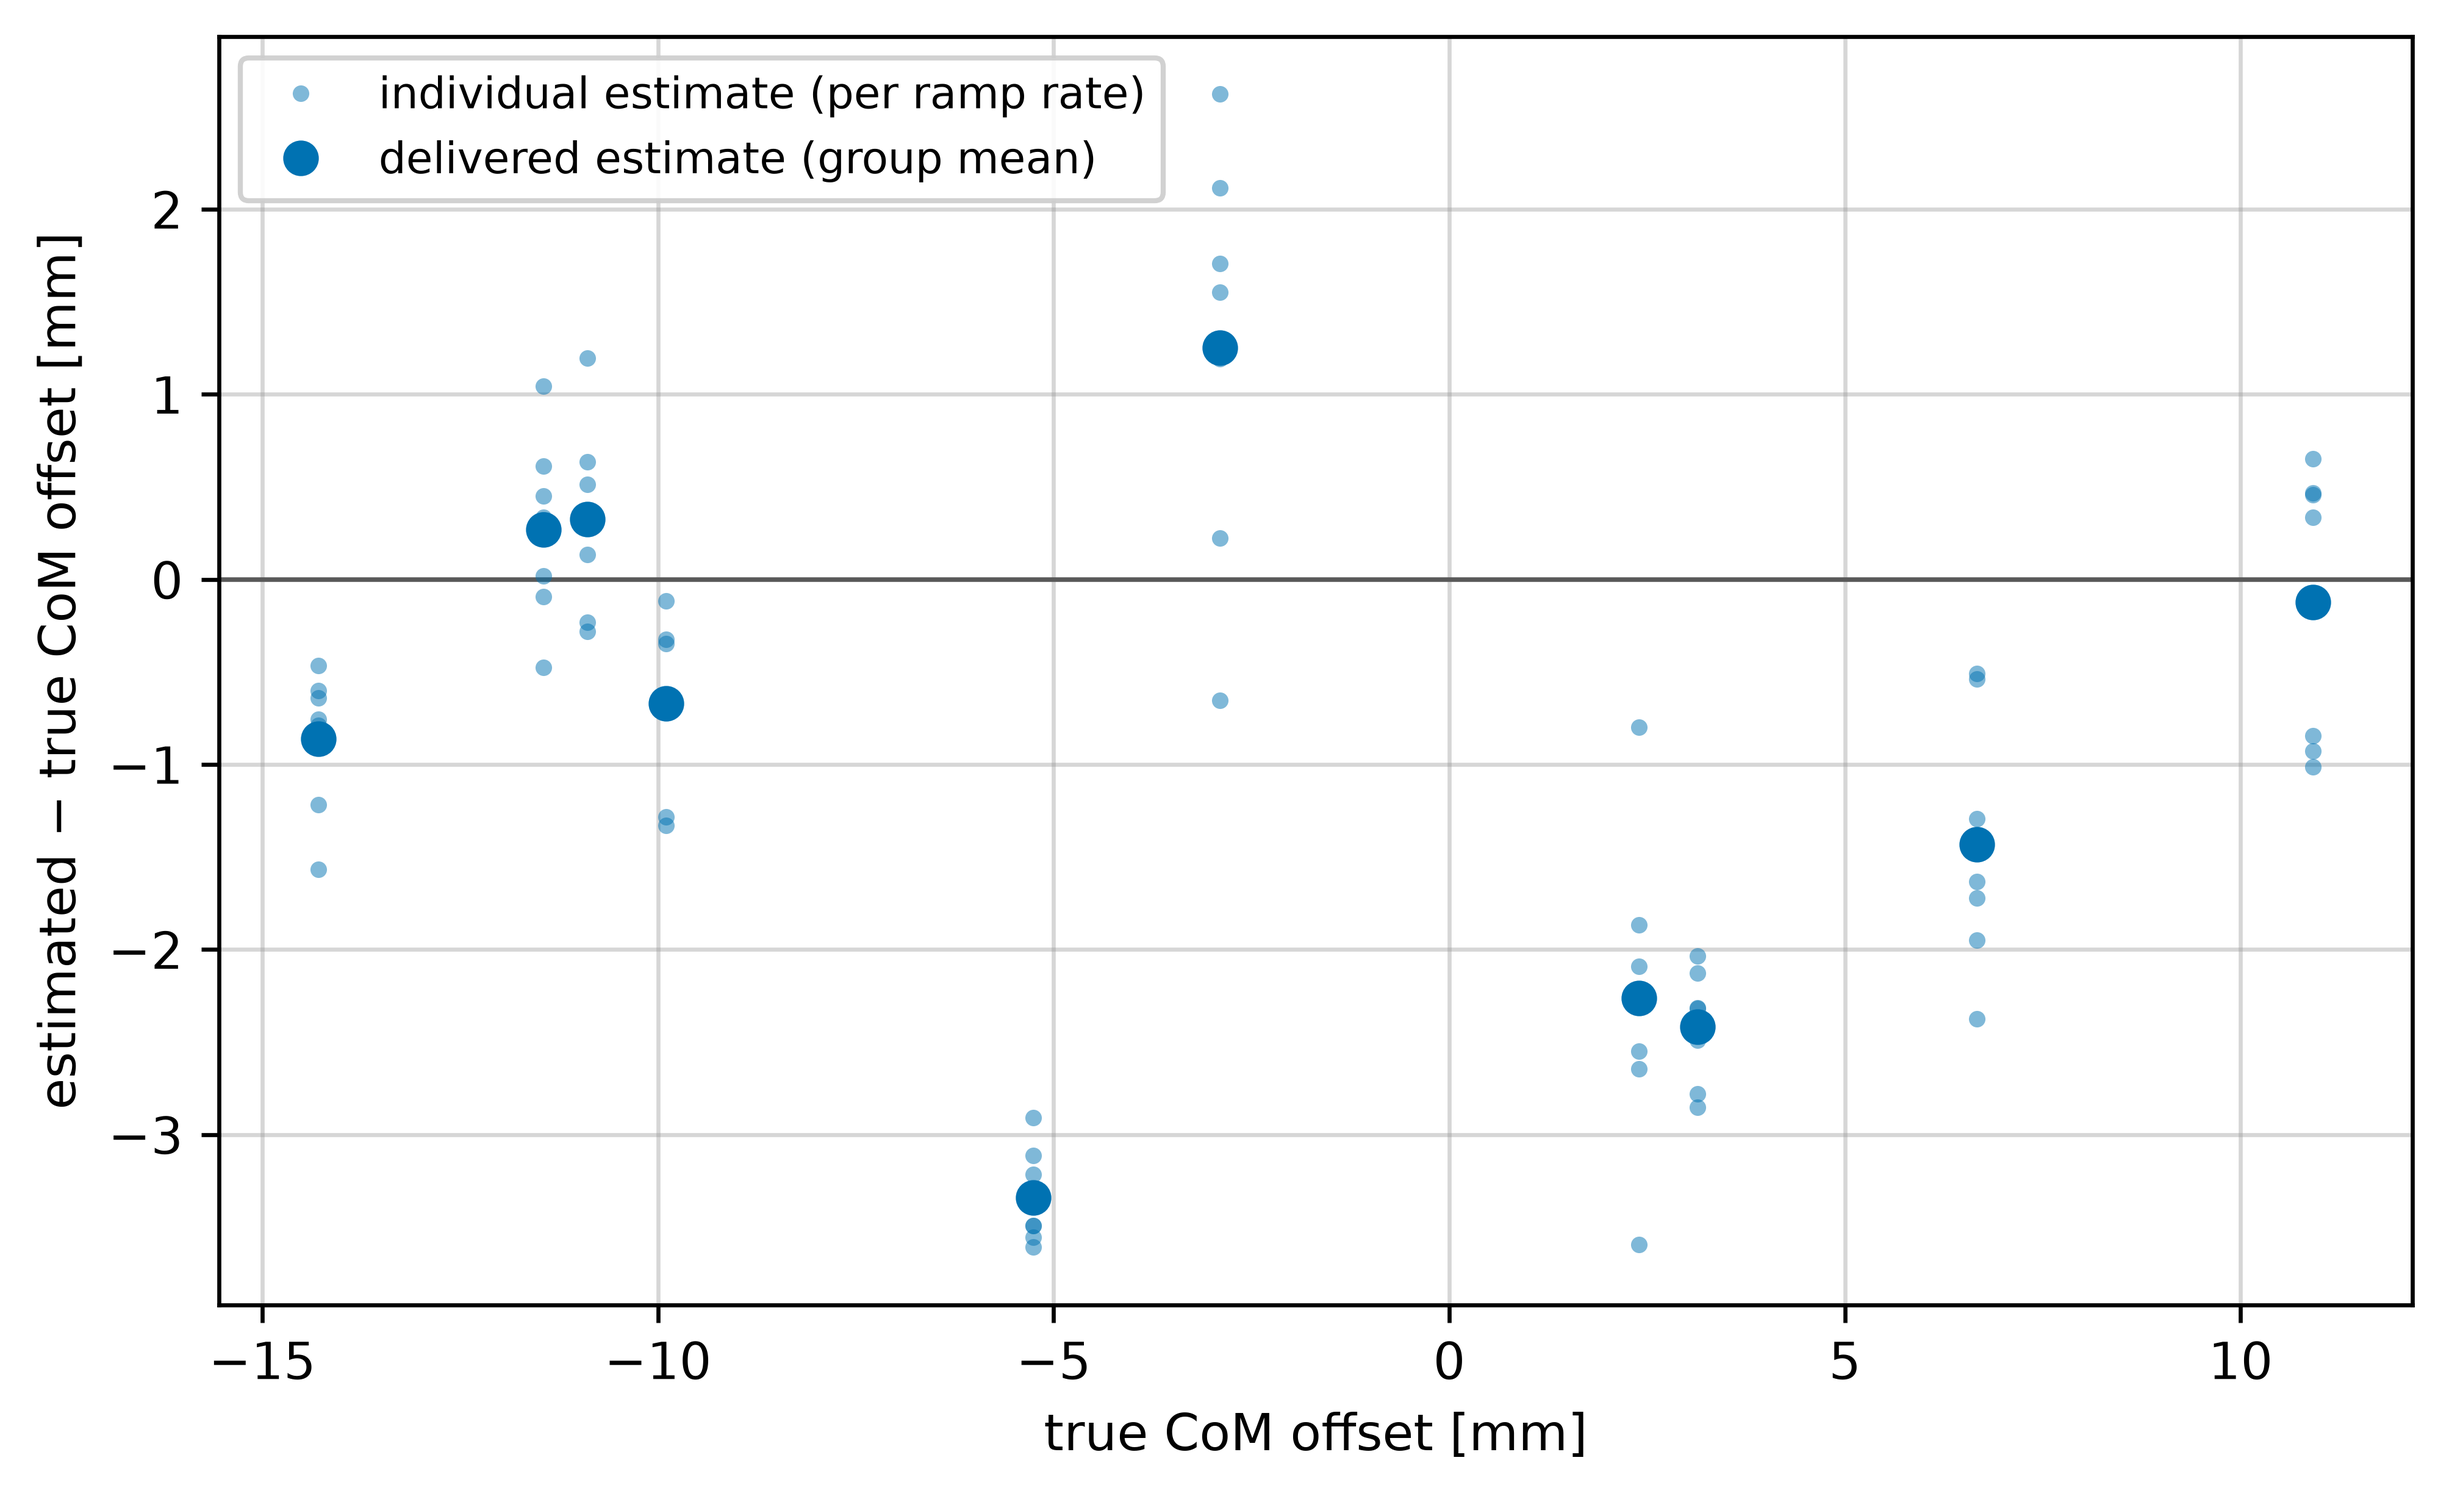
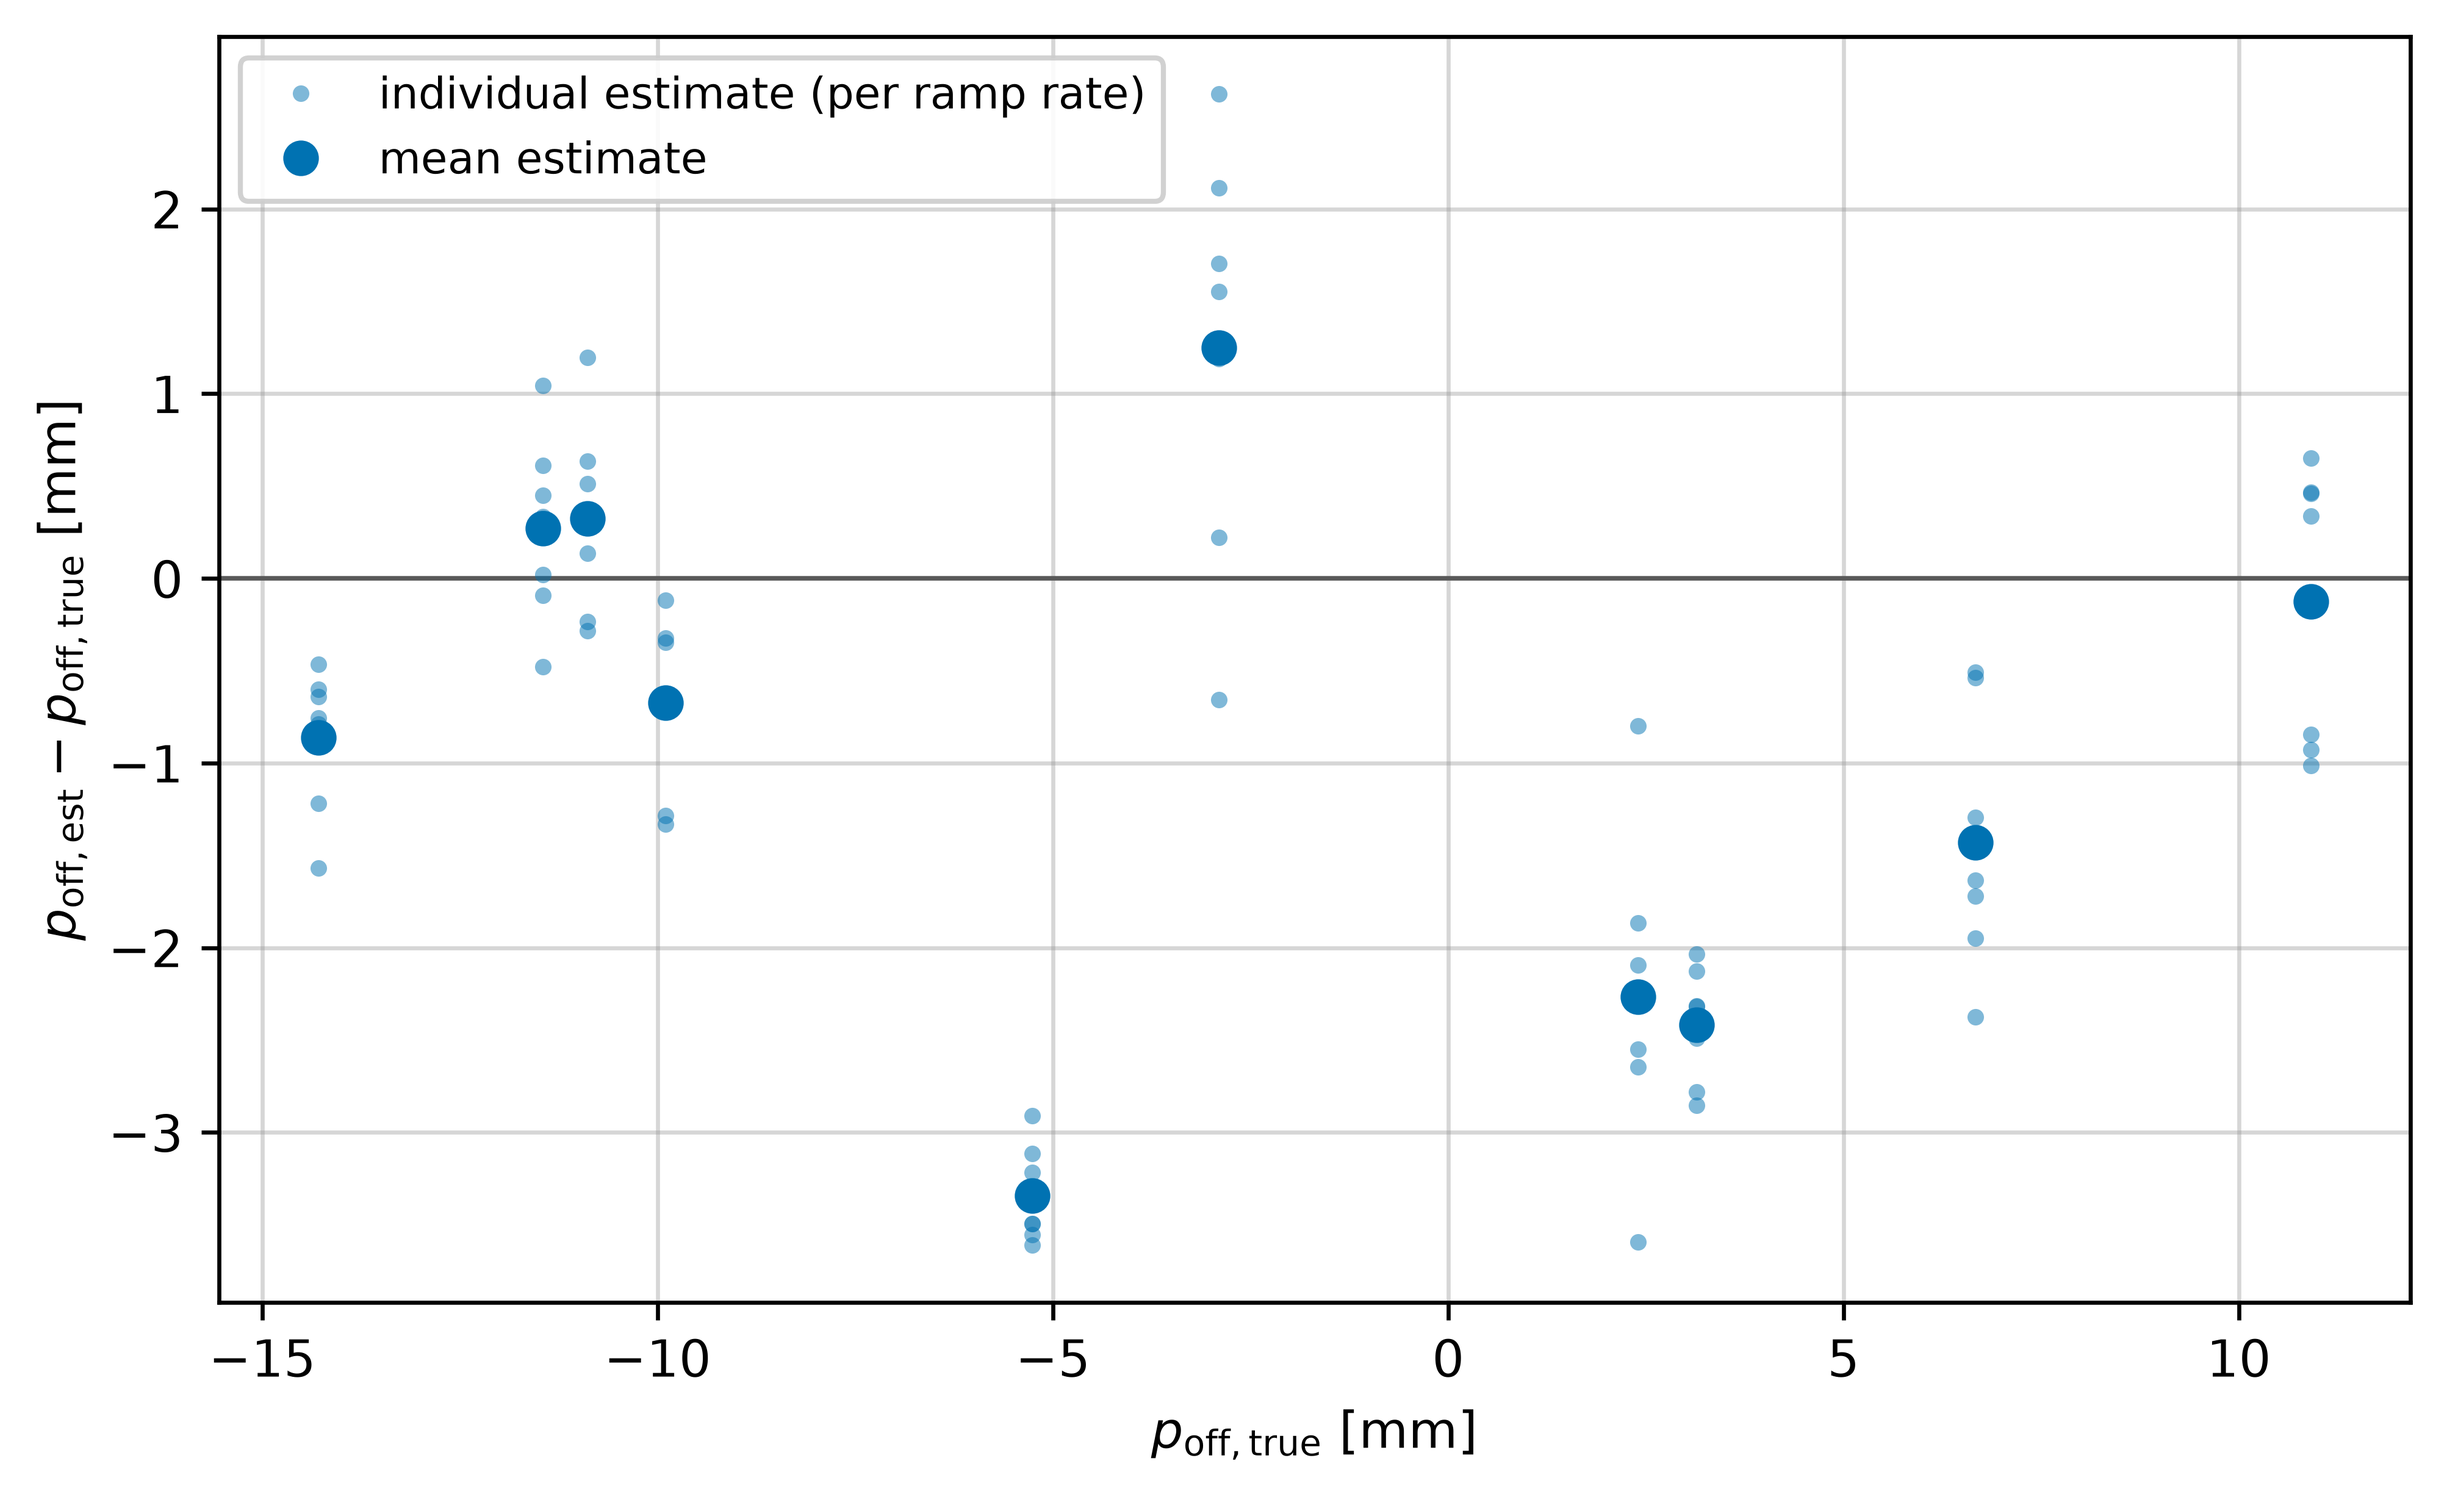
Symbol axis labels and simpler legend for the individual figure
y: p_off,est - p_off,true, x: p_off,true; the mean marker is
labeled 'mean estimate'.

diff --git a/analysis/estimator_error_figure.py b/analysis/estimator_error_figure.py
@@ -70,10 +70,11 @@ def draw_parity(est, out, dpi):
                     label='individual estimate (per ramp rate)'
                     if first else None)
             ax.plot(truth, me, MRK[m], color=COL[m], ms=6.0,
-                    zorder=3, label='delivered estimate (group mean)'
+                    zorder=3, label='mean estimate'
                     if first else None)
-    ax.set_xlabel('true CoM offset [mm]', fontsize=10)
-    ax.set_ylabel(r'estimated $-$ true CoM offset [mm]', fontsize=10)
+    ax.set_xlabel(r'$p_{\mathrm{off,true}}$ [mm]', fontsize=10)
+    ax.set_ylabel(r'$p_{\mathrm{off,est}} - p_{\mathrm{off,true}}$'
+                  r' [mm]', fontsize=10)
     ax.grid(alpha=0.4, lw=0.8, color='0.6')
     ax.set_axisbelow(True)
     ax.legend(fontsize=8.5, loc='upper left', framealpha=0.9)
